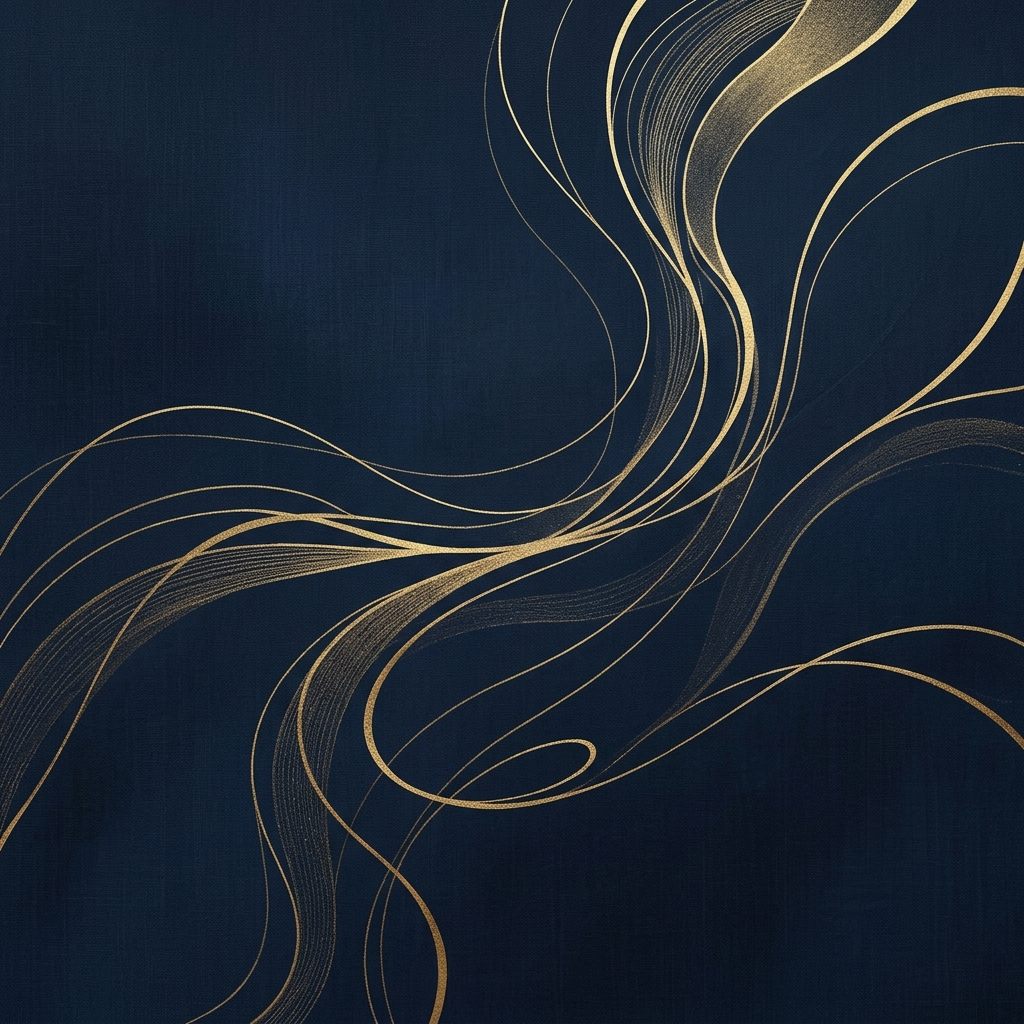
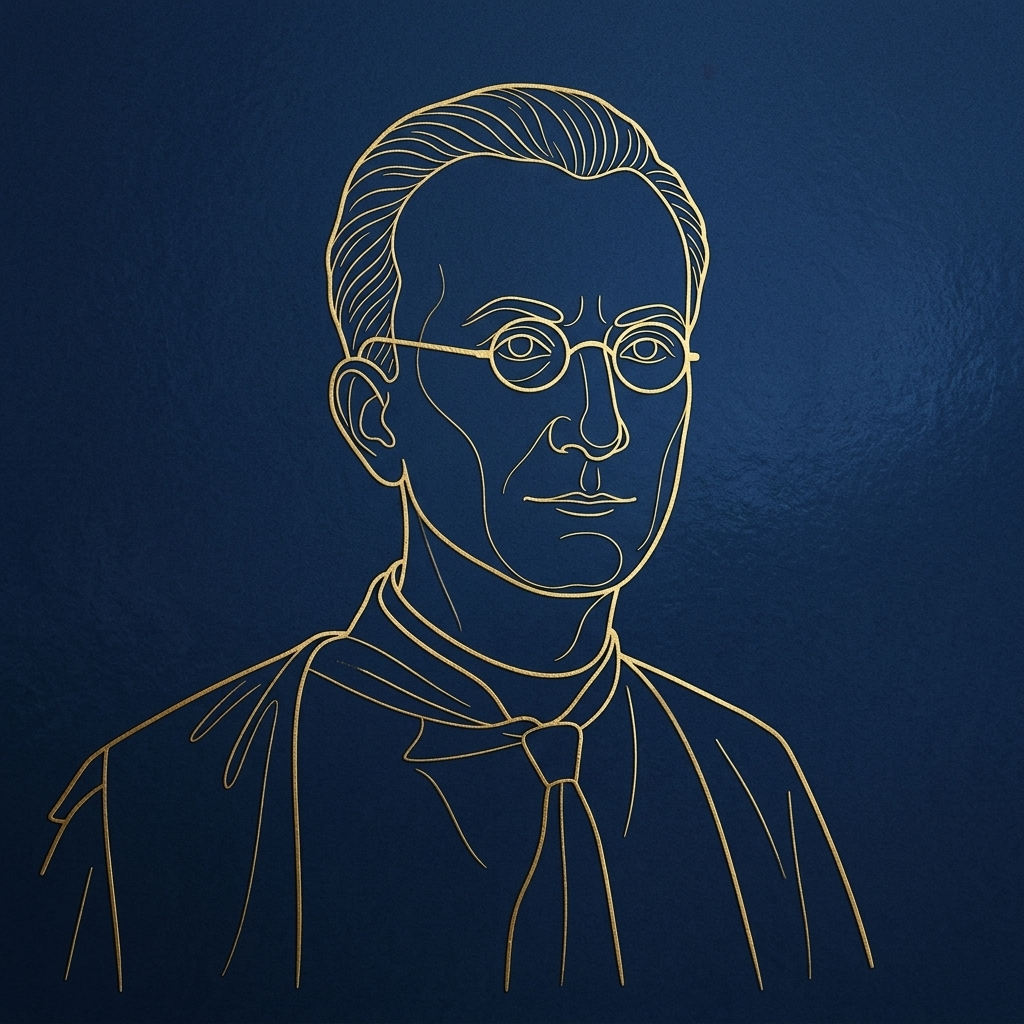
feat(auth): substitui fundo por retrato abstrato do Padre Dehon e remove todos os textos do painel

diff --git a/frontend/src/components/layout/LoginPage.css b/frontend/src/components/layout/LoginPage.css
@@ -124,53 +124,7 @@
   overflow: hidden;
 }
 
-.login-brand-panel::after {
-  content: '';
-  position: absolute;
-  inset: 0;
-  background: linear-gradient(180deg, rgba(15, 23, 42, 0.3) 0%, rgba(15, 23, 42, 0.75) 100%);
-  z-index: 0;
-}
 
-.brand-content {
-  position: relative;
-  z-index: 1;
-  display: flex;
-  flex-direction: column;
-  gap: 1.5rem;
-  color: white;
-}
-
-.brand-title {
-  font-family: var(--font-display);
-  font-size: 2.25rem;
-  font-weight: 700;
-  line-height: 1.2;
-  letter-spacing: -0.02em;
-}
-
-.brand-motto {
-  font-family: var(--font-serif);
-  font-size: 1.1rem;
-  font-style: italic;
-  opacity: 0.9;
-  line-height: 1.5;
-}
-
-.brand-footer {
-  margin-top: auto;
-  padding-top: 2rem;
-  font-size: 0.75rem;
-  opacity: 0.6;
-  display: flex;
-  flex-direction: column;
-  gap: 0.25rem;
-}
-
-.brand-footer strong {
-  font-weight: 600;
-  opacity: 1;
-}
 
 /* --- Right: Form Panel --- */
 .login-form-panel {

diff --git a/frontend/src/components/layout/LoginPage.tsx b/frontend/src/components/layout/LoginPage.tsx
@@ -92,17 +92,7 @@ const LoginPage: React.FC<LoginPageProps> = ({ onLoginSuccess }) => {
       {/* Split Layout */}
       <div className="login-split">
         {/* Left: Brand Panel */}
-        <div className="login-brand-panel">
-          <div className="brand-content animate-fade-in">
-            <h1 className="brand-title">Biblioteca Dehoniana</h1>
-            <p className="brand-motto">"Sint unum: A inteligência a serviço do Coração."</p>
-            
-            <div className="brand-footer">
-              <span>Sistema de Alta Pesquisa desenvolvido por</span>
-              <strong>Fr. João Rodrigues Utxica, scj</strong>
-            </div>
-          </div>
-        </div>
+        <div className="login-brand-panel" />
 
         {/* Right: Auth Card */}
         <div className="login-form-panel">